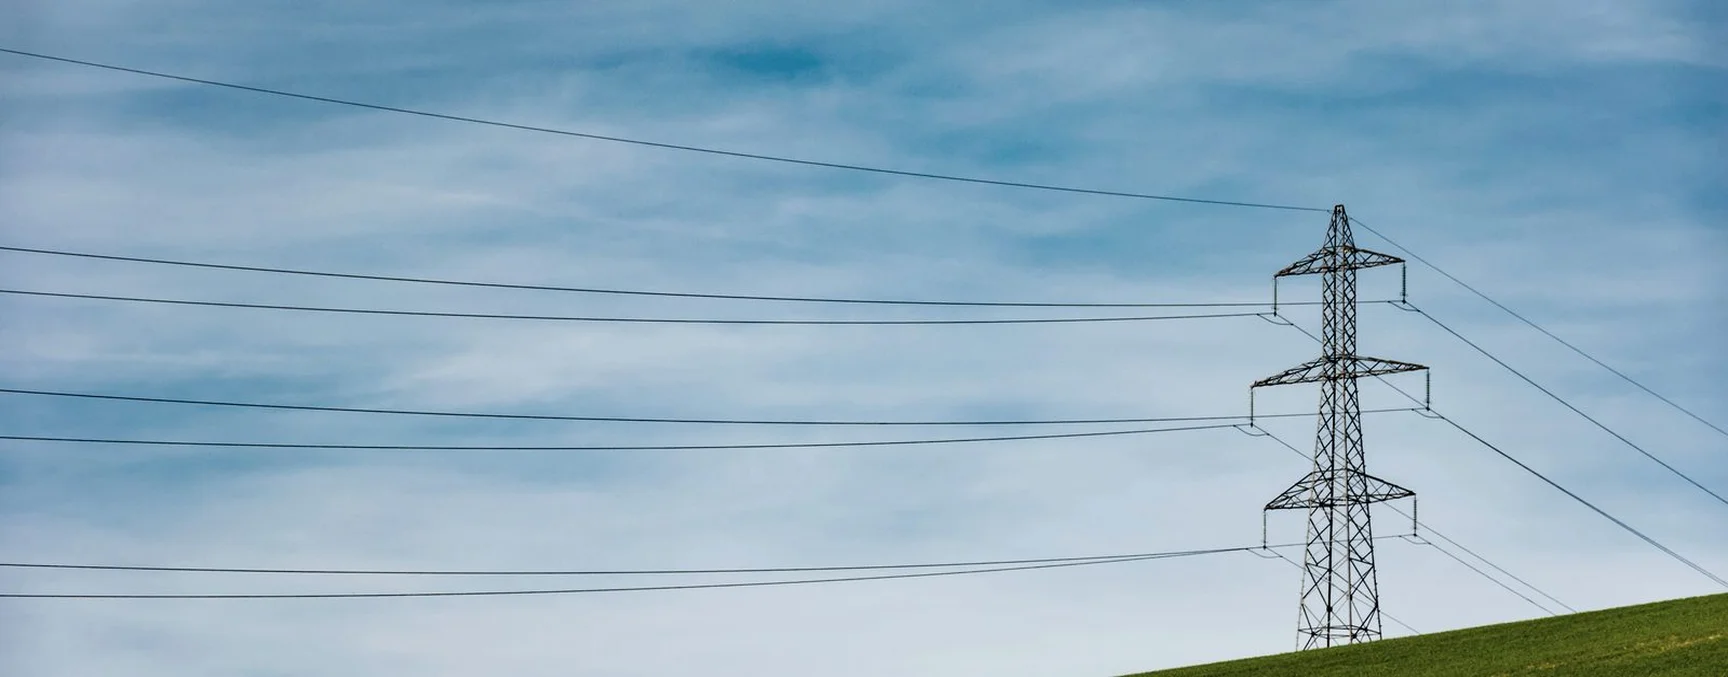
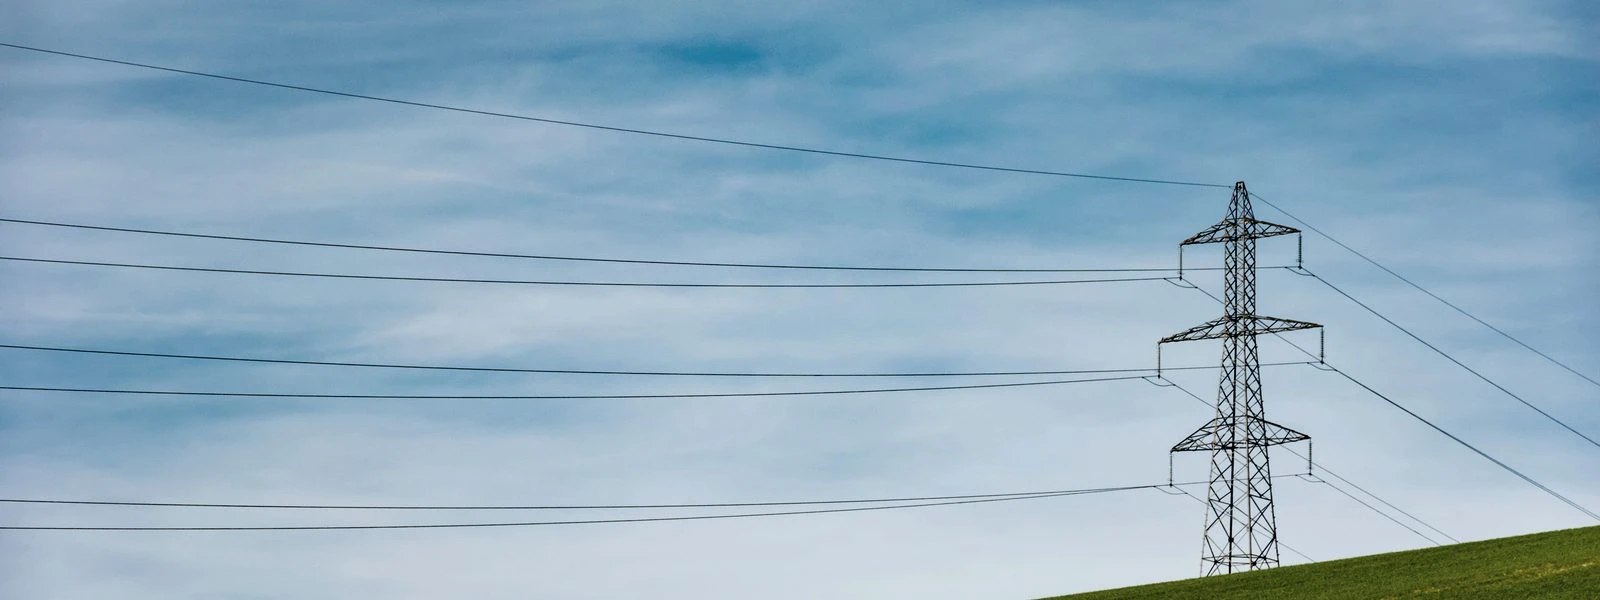
Framework hero: use native unstretched powerline image; focus crop on the tower

Changed region(s): [[0.75, 0.69, 0.8125, 0.75], [0.75, 0.51, 0.8125, 0.57]]

diff --git a/framework.html b/framework.html
@@ -134,8 +134,8 @@
     <div
       class="relative mx-auto isolate min-h-[520px] max-w-page overflow-hidden bg-white fade-up tablet:h-[677px] tablet:min-h-[480px] tablet:max-h-[calc(100dvh-8.25rem)]">
       <div class="pointer-events-none absolute inset-0 z-0" aria-hidden="true">
-        <img src="images/fw-hero-bg.webp" alt="" width="1728" height="677"
-          class="absolute inset-0 z-0 h-full w-full max-w-none object-cover object-bottom" decoding="async">
+        <img src="images/fw-hero-bg.webp" alt="" width="1600" height="600"
+          class="absolute inset-0 z-0 h-full w-full max-w-none object-cover" style="object-position: 78% 65%" decoding="async">
         <div class="absolute left-0 right-0 top-0 z-[1] h-[40.03%] bg-gradient-to-b from-white to-transparent"
           data-node-id="332:3293"></div>
       </div>
